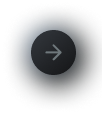
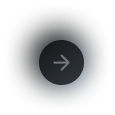
more styles

Changed region(s): [[0.2353, 0.2087, 0.9706, 0.7826]]

diff --git a/src/components/WidgetContainer.jsx b/src/components/WidgetContainer.jsx
@@ -26,15 +26,16 @@ const WidgetContainer = () => {
             </div>
             <div className="middle flex flex-col items-center justify-center">
               <nav>
-                <ul className="flex gap-3 justify-between">
-                  <li>About</li>
-                  <li>Experience</li>
-                  <li>Recommended</li>
+                <ul className="flex gap-1 justify-between bg-zinc-950 p-2 rounded-xl">
+                  <li className="py-2 px-14 bg-zinc-800 text-white rounded-xl drop-shadow-2xl z-10">About</li>
+                  <li className="py-2 px-8">Experience</li>
+                  <li className="py-2 px-8">Recommended</li>
                 </ul>
               </nav>
-              <p className="text-left p-3">
+              <p className="text-left text-base p-3">
                 Hello! I’m Dave, your sales rep here from Salesforce. I’ve been
                 working at this awesome company for 3 years now.
+                <br />
                 <br />I was born and raised in Albany, NY, and have been living
                 in Santa Carla for the past 10 years with my wife Tiffany and my
                 4-year-old twin daughters, Emma and Ella.Both of them are just
@@ -58,28 +59,29 @@ const WidgetContainer = () => {
             </div>
             <div className="middle flex flex-col items-center justify-between">
               <nav>
-                <ul className="flex gap-3">
+                <ul className="flex gap-3 m-2">
                   <li>
                     <img src={gallery} alt="" />
                   </li>
                   <li>
-                    <button className=" w-36 h-14 text-white font-medium drop-shadow-xl border-t-2 backdrop-blur-md rounded-full bg-[#40464d]">
-                     <span><PlusOutlined  /></span> ADD IMAGE
-                    </button>
+                    
+                    <button className="w-36 h-14 text-white font-medium rounded-full bg-[#40464d] shadow-inner shadow-white border-b-0  drop-shadow-2xl ">
+  <span><PlusOutlined /></span> ADD IMAGE
+</button>
                   </li>
-                  <li>
-                    <div className="prev-next-btns">
+                  <li className="mb-10 mt-0 pt-0 -translate-y-7">
+                    <div className="prev-next-btns flex justify-center ">
                       <button>
                         <img
                           src={prev}
-                          className="hover:brightness-75 transition-all  "
+                          className="hover:brightness-75 w-30 h-30 transition-all rounded-full "
                           alt=""
                         />
                       </button>
                       <button>
                         <img
                           src={next}
-                          className="hover:brightness-75 transition-all  "
+                          className="hover:brightness-75 w-30 h-30 transition-all  rounded-full pb-3"
                           alt=""
                         />
                       </button>
